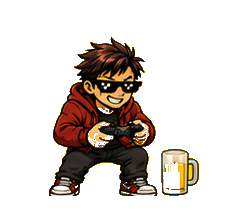
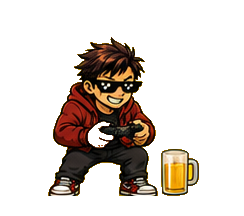
Preserve man beer and fart sprite details

diff --git a/tests/test_word_jump_overlay.py b/tests/test_word_jump_overlay.py
@@ -318,6 +318,30 @@ def test_man_sprite_keeps_beer_and_fart_effect_colors():
     assert len(fart_green_pixels) > 1200
 
 
+def test_man_sprite_keeps_yellow_beer_in_timer_mugs():
+    frames_dir = Path("assets/mascot/man_character_frames")
+    minimum_right_side_beer_pixels = {
+        "00.png": 180,
+        "05.png": 150,
+        "08.png": 500,
+        "10.png": 450,
+        "16.png": 200,
+        "21.png": 150,
+        "23.png": 80,
+    }
+
+    for frame_name, minimum_pixels in minimum_right_side_beer_pixels.items():
+        frame = Image.open(frames_dir / frame_name).convert("RGBA")
+        yellow_beer_pixels = 0
+        for y in range(frame.height):
+            for x in range(int(frame.width * 0.58), frame.width):
+                red, green, blue, alpha = frame.getpixel((x, y))
+                if alpha > 80 and red > 180 and 100 < green < 235 and blue < 110:
+                    yellow_beer_pixels += 1
+
+        assert yellow_beer_pixels > minimum_pixels
+
+
 def test_man_sprite_has_no_yellow_sheet_background_between_legs():
     frames_dir = Path("assets/mascot/man_character_frames")
     for frame_name in ("18.png", "19.png", "20.png", "21.png", "22.png", "23.png"):
@@ -325,7 +349,7 @@ def test_man_sprite_has_no_yellow_sheet_background_between_legs():
         width, height = frame.size
         suspicious_yellow_pixels = 0
         for y in range(int(height * 0.72), height):
-            for x in range(int(width * 0.18), int(width * 0.73)):
+            for x in range(int(width * 0.18), int(width * 0.56)):
                 red, green, blue, alpha = frame.getpixel((x, y))
                 if alpha > 40 and red > 165 and green > 90 and blue < 150 and red - blue > 60:
                     suspicious_yellow_pixels += 1
